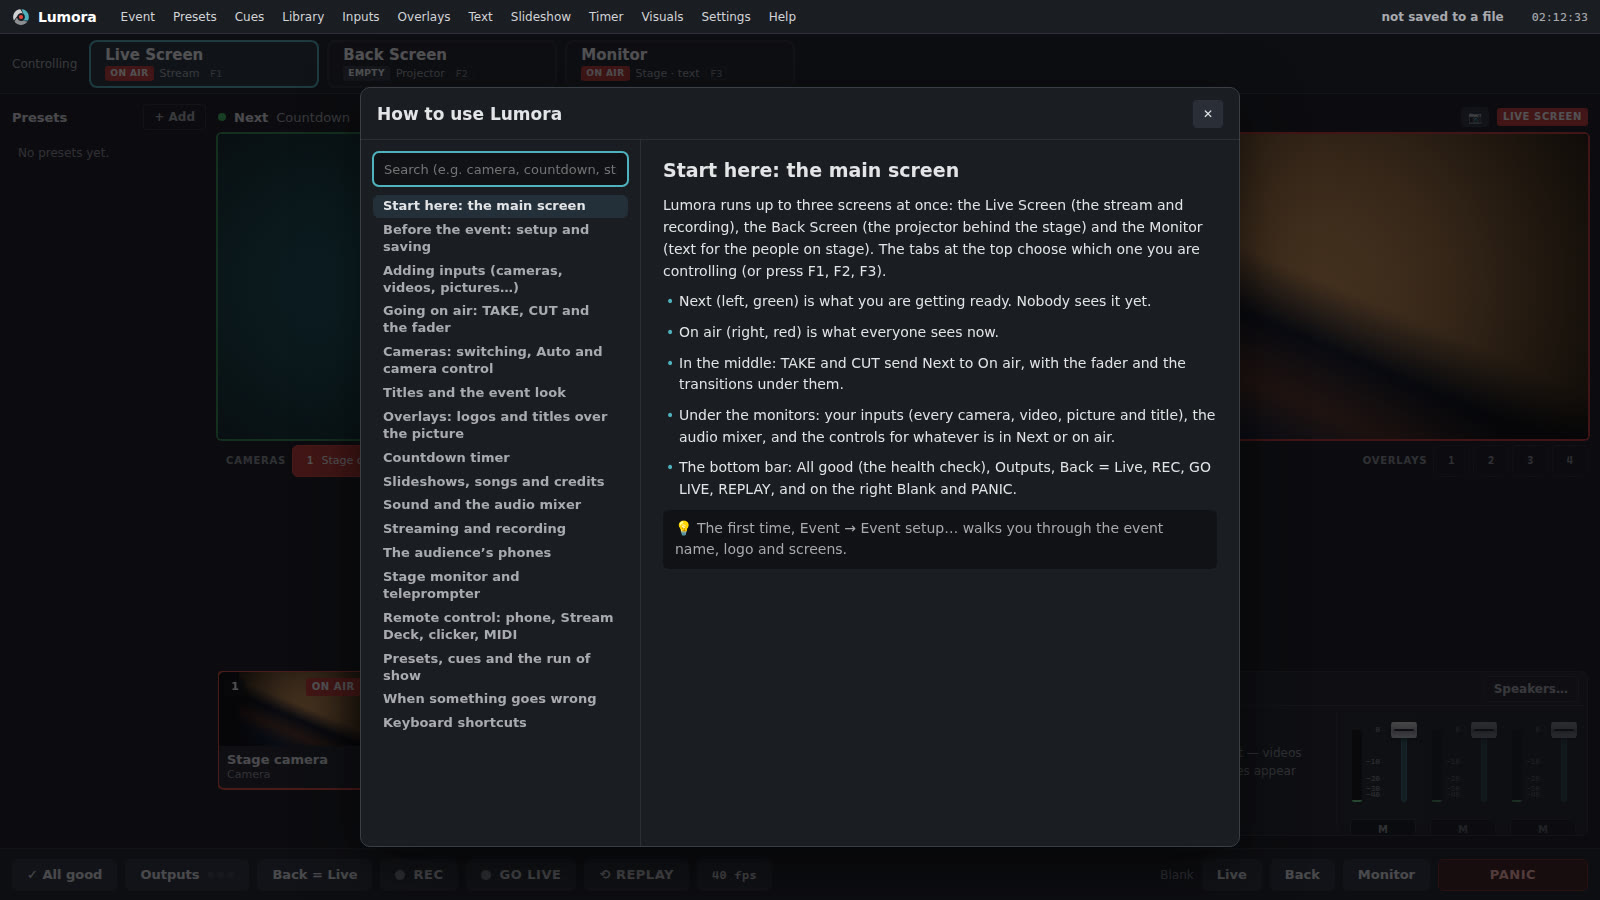
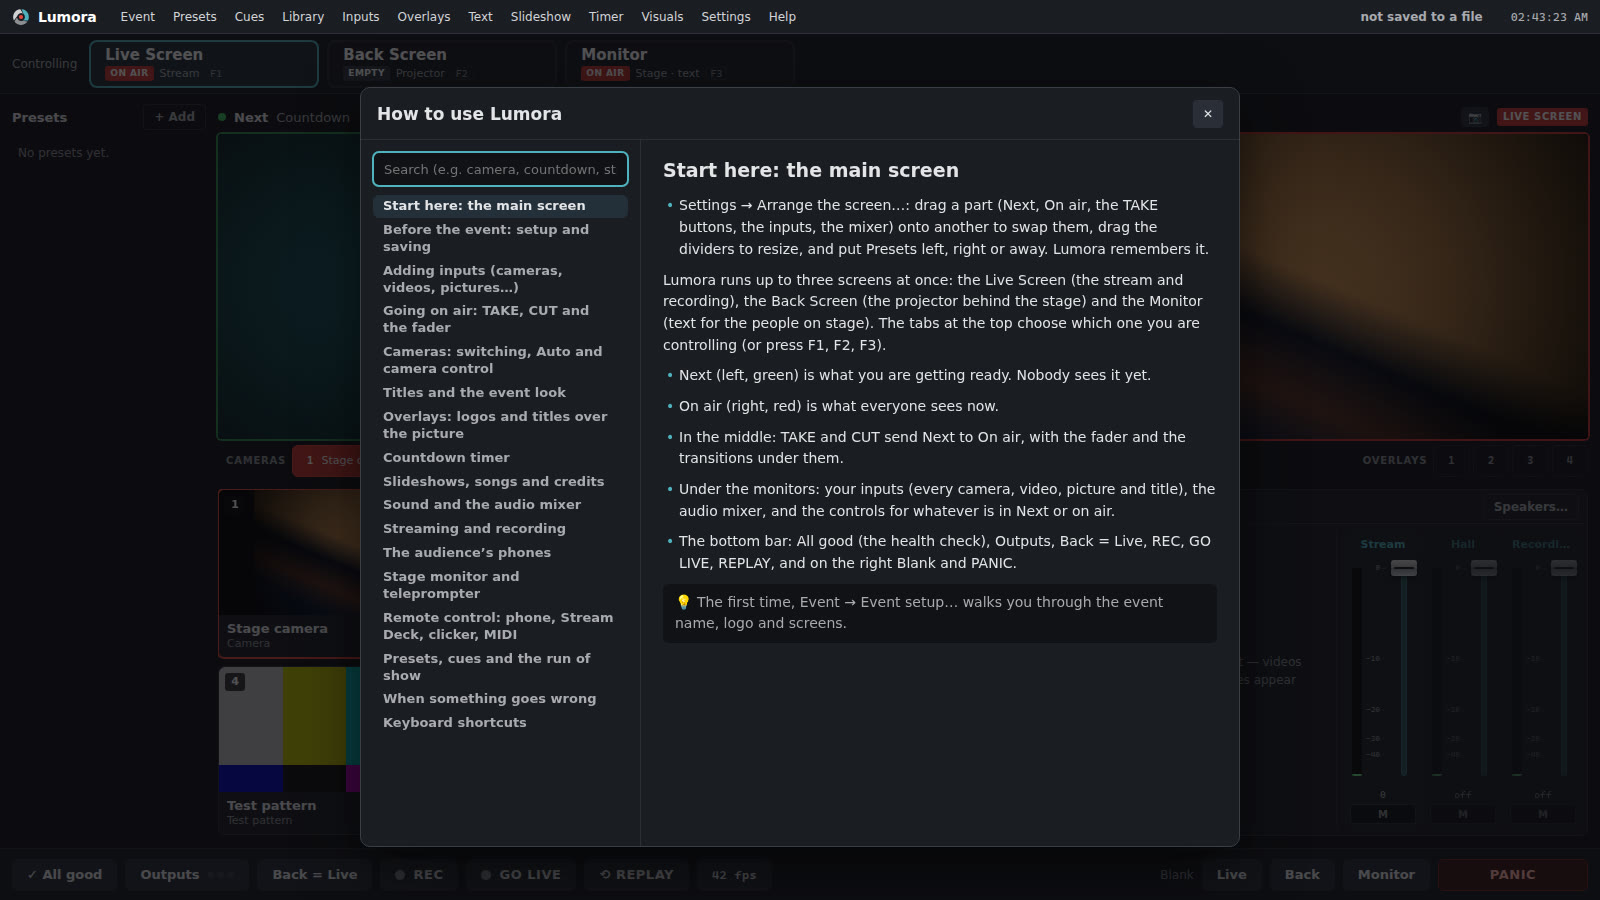
Website: the app at the top runs by itself, turns to face you as you scroll; headline, numbers and sections animate in
- The main screen at the top plays: moving pictures in Next and On air, and TAKE every few seconds
- The app window tilts back and turns to face you as you scroll
- The headline rises in word by word; a numbers strip counts up (3 screens, 22 transitions, 500 fonts, 4K)
- Sections glide in as they come into view; nothing moves for people who turn motion off
- New screenshots of the app (no empty spots); the stage clock in 12-hour time

Claude-Session: https://claude.ai/code/session_015kLno7PFHPq4PGcGyYFnDV

diff --git a/docs/site.js b/docs/site.js
@@ -440,7 +440,7 @@
     const tc = `${pad(Math.floor(s / 3600))}:${pad(Math.floor(s / 60) % 60)}:${pad(s % 60)}:${pad(f)}`;
     tcs.forEach((el) => (el.textContent = tc));
     const d = new Date();
-    clock.textContent = `${pad(d.getHours())}:${pad(d.getMinutes())}`;
+    clock.textContent = d.toLocaleTimeString('en-US', { hour: 'numeric', minute: '2-digit' });
     const r = Math.max(0, 299 - (s % 300));
     left.textContent = `${Math.floor(r / 60)}:${pad(r % 60)} left`;
   }
@@ -456,8 +456,39 @@
     }),
   );
   const screens = $('#screens');
+  const hero = $('.win--hero');
   io.observe(sw);
   io.observe(screens);
+  if (hero) io.observe(hero);
+
+  // The app at the top runs by itself: a shot waits in Next, then TAKE.
+  const hNext = $('[data-hero="next"]');
+  const hPgm = $('[data-hero="pgm"]');
+  const hTake = $('[data-hero-take]');
+  const hs = { pgm: 0, next: 1, from: null, at: 0, nextTake: performance.now() + 3200 };
+  const heroOrder = [0, 1, 2, 0, 3, 1];
+  let heroStep = 1;
+  function drawHero(now) {
+    if (now > hs.nextTake) {
+      hTake.classList.add('is-on');
+      setTimeout(() => hTake.classList.remove('is-on'), 450);
+      hs.from = hs.pgm;
+      hs.at = now + 150;
+      hs.pgm = hs.next;
+      heroStep = (heroStep + 1) % heroOrder.length;
+      hs.next = heroOrder[heroStep] === hs.pgm ? heroOrder[(heroStep + 1) % heroOrder.length] : heroOrder[heroStep];
+      hs.nextTake = now + 4200;
+    }
+    hNext.getContext('2d').drawImage(frames[hs.next], 0, 0, hNext.width, hNext.height);
+    const c = hPgm.getContext('2d');
+    const p = hs.from === null ? 1 : Math.min(1, Math.max(0, (now - hs.at) / 700));
+    c.globalAlpha = 1;
+    if (p < 1) c.drawImage(frames[hs.from], 0, 0, hPgm.width, hPgm.height);
+    c.globalAlpha = p;
+    c.drawImage(frames[hs.pgm], 0, 0, hPgm.width, hPgm.height);
+    c.globalAlpha = 1;
+    if (p >= 1) hs.from = null;
+  }
 
   let last = 0;
   function frame(now) {
@@ -469,6 +500,7 @@
     const t = now / 1000;
     SOURCES.forEach((s, i) => s.draw(frames[i].getContext('2d'), t));
     drawProgram(now);
+    if (hero && visible.has(hero)) drawHero(now);
     if (visible.has(sw)) {
       frames.forEach((f, i) => show(`src${i}`, f));
       show('next', frames[st.next]);
@@ -487,6 +519,7 @@
     SOURCES.forEach((s, i) => s.draw(frames[i].getContext('2d'), t));
     const redraw = () => {
       drawProgram(performance.now() + 1e4);
+      if (hero) drawHero(0);
       frames.forEach((f, i) => show(`src${i}`, f));
       show('next', frames[st.next]);
       show('program', program);
@@ -553,4 +586,60 @@
     }),
   );
   document.getElementById('year').textContent = new Date().getFullYear();
+
+  // The headline, word by word.
+  const h1 = document.querySelector('.hero h1');
+  if (h1 && !still) {
+    h1.innerHTML = h1.textContent
+      .trim()
+      .split(/\s+/)
+      .map((w, i) => `<span class="w" style="--i:${i}">${w}</span>`)
+      .join(' ');
+  }
+
+  // The app window turns to face you as you scroll.
+  if (hero && !still) {
+    const tilt = () => {
+      const p = Math.min(1, Math.max(0, scrollY / (innerHeight * 0.55)));
+      hero.style.setProperty('--tilt', `${(10 * (1 - p)).toFixed(2)}deg`);
+      hero.style.setProperty('--sc', (0.95 + 0.05 * p).toFixed(3));
+    };
+    tilt();
+    addEventListener('scroll', tilt, { passive: true });
+  }
+
+  // Sections glide in; the numbers count up.
+  const count = (el) => {
+    const to = Number(el.dataset.count);
+    const suffix = el.dataset.suffix || '';
+    if (still) return;
+    const t0 = performance.now();
+    const step = (now) => {
+      const p = Math.min(1, (now - t0) / 1400);
+      el.textContent = `${Math.round(to * (1 - (1 - p) ** 3))}${suffix}`;
+      if (p < 1) requestAnimationFrame(step);
+    };
+    requestAnimationFrame(step);
+  };
+  if (!still && 'IntersectionObserver' in window) {
+    const items = document.querySelectorAll(
+      '.stats__item, .head, .feat__cols > div, .dev, .calm__grid > div, .split__win, .split__text, .sw, .tabs, #app .win, .fb__form, .dl__in, .dest__in',
+    );
+    items.forEach((el) => {
+      const sibs = [...el.parentElement.children].filter((x) => x.classList.contains(el.classList[0]));
+      el.style.setProperty('--d', `${Math.max(0, sibs.indexOf(el)) * 90}ms`);
+      el.classList.add('reveal');
+    });
+    const rio = new IntersectionObserver(
+      (es) =>
+        es.forEach((e) => {
+          if (!e.isIntersecting) return;
+          e.target.classList.add('is-in');
+          e.target.querySelectorAll('[data-count]').forEach(count);
+          rio.unobserve(e.target);
+        }),
+      { rootMargin: '0px 0px -12% 0px' },
+    );
+    items.forEach((el) => rio.observe(el));
+  }
 })();

diff --git a/docs/site.css b/docs/site.css
@@ -988,8 +988,10 @@ section {
   z-index: -1;
 }
 .win--hero {
-  transform: perspective(2400px) rotateX(8deg);
+  /* Tilted back, and turned to face you as you scroll (site.js). */
+  transform: perspective(2400px) rotateX(var(--tilt, 10deg)) scale(var(--sc, 0.95));
   transform-origin: 50% 100%;
+  will-change: transform;
 }
 .win > img {
   display: block;
@@ -1000,4 +1002,134 @@ section {
   box-shadow:
     0 30px 80px rgba(0, 0, 0, 0.5),
     0 0 0 1px rgba(79, 179, 191, 0.08);
+}
+
+/* The app at the top, running: its monitors play, and TAKE goes now and then. */
+.win__stage {
+  position: relative;
+}
+.hero__mon {
+  position: absolute;
+  top: 14.889%;
+  width: 33.875%;
+  height: 33.889%;
+  border-radius: 2px;
+}
+.hero__mon--next {
+  left: 13.625%;
+}
+.hero__mon--pgm {
+  left: 65.375%;
+}
+.hero__take {
+  position: absolute;
+  left: 48.25%;
+  top: 14.889%;
+  width: 16.375%;
+  height: 5.11%;
+  border-radius: 6px;
+  opacity: 0;
+  box-shadow:
+    0 0 0 2px rgba(255, 255, 255, 0.9),
+    0 0 30px 8px rgba(229, 70, 59, 0.75);
+  transition: opacity 0.25s;
+}
+.hero__take.is-on {
+  opacity: 1;
+}
+
+/* The headline rises in, word by word. */
+.hero h1 .w {
+  display: inline-block;
+  animation: rise 0.9s cubic-bezier(0.2, 0.7, 0.2, 1) both;
+  animation-delay: calc(var(--i) * 70ms + 100ms);
+}
+@keyframes rise {
+  from {
+    opacity: 0;
+    transform: translateY(0.45em);
+    filter: blur(6px);
+  }
+}
+.hero .pill,
+.hero .lead,
+.hero__cta,
+.hero .fine {
+  animation: rise 0.9s cubic-bezier(0.2, 0.7, 0.2, 1) both;
+}
+.hero .lead {
+  animation-delay: 0.55s;
+}
+.hero__cta {
+  animation-delay: 0.7s;
+}
+.hero .fine {
+  animation-delay: 0.8s;
+}
+
+/* Numbers */
+.stats {
+  padding: 40px 0 8px;
+}
+.stats__in {
+  display: grid;
+  grid-template-columns: repeat(4, minmax(0, 1fr));
+  gap: 24px;
+  text-align: center;
+}
+.stats__item b {
+  display: block;
+  font-weight: 750;
+  font-stretch: 110%;
+  font-size: clamp(40px, 5vw, 64px);
+  line-height: 1;
+  letter-spacing: -0.03em;
+  background: linear-gradient(180deg, #fff, #8fd3db);
+  -webkit-background-clip: text;
+  background-clip: text;
+  color: transparent;
+  font-variant-numeric: tabular-nums;
+}
+.stats__item span {
+  display: block;
+  margin-top: 8px;
+  font-size: 15px;
+  color: var(--muted);
+}
+
+/* Sections glide in as they come into view. */
+.reveal {
+  opacity: 0;
+  transform: translateY(28px);
+  transition:
+    opacity 0.8s cubic-bezier(0.2, 0.7, 0.2, 1),
+    transform 0.8s cubic-bezier(0.2, 0.7, 0.2, 1);
+  transition-delay: var(--d, 0ms);
+}
+.reveal.is-in {
+  opacity: 1;
+  transform: none;
+}
+
+@media (max-width: 720px) {
+  .stats__in {
+    grid-template-columns: 1fr 1fr;
+  }
+}
+@media (prefers-reduced-motion: reduce) {
+  .hero h1 .w,
+  .hero .pill,
+  .hero .lead,
+  .hero__cta,
+  .hero .fine {
+    animation: none;
+  }
+  .reveal {
+    opacity: 1;
+    transform: none;
+    transition: none;
+  }
+  .win--hero {
+    transform: none;
+  }
 }

diff --git a/docs/index.html b/docs/index.html
@@ -52,13 +52,27 @@
             <div class="win__bar">
               <span><img src="img/lumora-mark.svg" alt="" width="14" height="14" />Lumora</span><i></i><i></i><i></i>
             </div>
-            <img
-              src="img/main.jpg"
-              width="1600"
-              height="900"
-              alt="The Lumora main screen: Next on the left, On air on the right, TAKE and CUT in the middle, inputs and the sound mixer below."
-            />
+            <div class="win__stage">
+              <img
+                src="img/main.jpg"
+                width="1600"
+                height="900"
+                alt="The Lumora main screen: Next on the left, On air on the right, TAKE and CUT in the middle, inputs and the sound mixer below."
+              />
+              <canvas class="hero__mon hero__mon--next" data-hero="next" width="640" height="360" aria-hidden="true"></canvas>
+              <canvas class="hero__mon hero__mon--pgm" data-hero="pgm" width="640" height="360" aria-hidden="true"></canvas>
+              <span class="hero__take" data-hero-take aria-hidden="true"></span>
+            </div>
           </div>
+        </div>
+      </section>
+
+      <section class="stats" aria-label="Lumora in numbers">
+        <div class="wrap stats__in">
+          <div class="stats__item"><b data-count="3">3</b><span>screens run at once</span></div>
+          <div class="stats__item"><b data-count="22">22</b><span>transitions</span></div>
+          <div class="stats__item"><b data-count="500">500</b><span>fonts built in</span></div>
+          <div class="stats__item"><b data-count="4" data-suffix="K">4K</b><span>streaming and recording</span></div>
         </div>
       </section>
 
